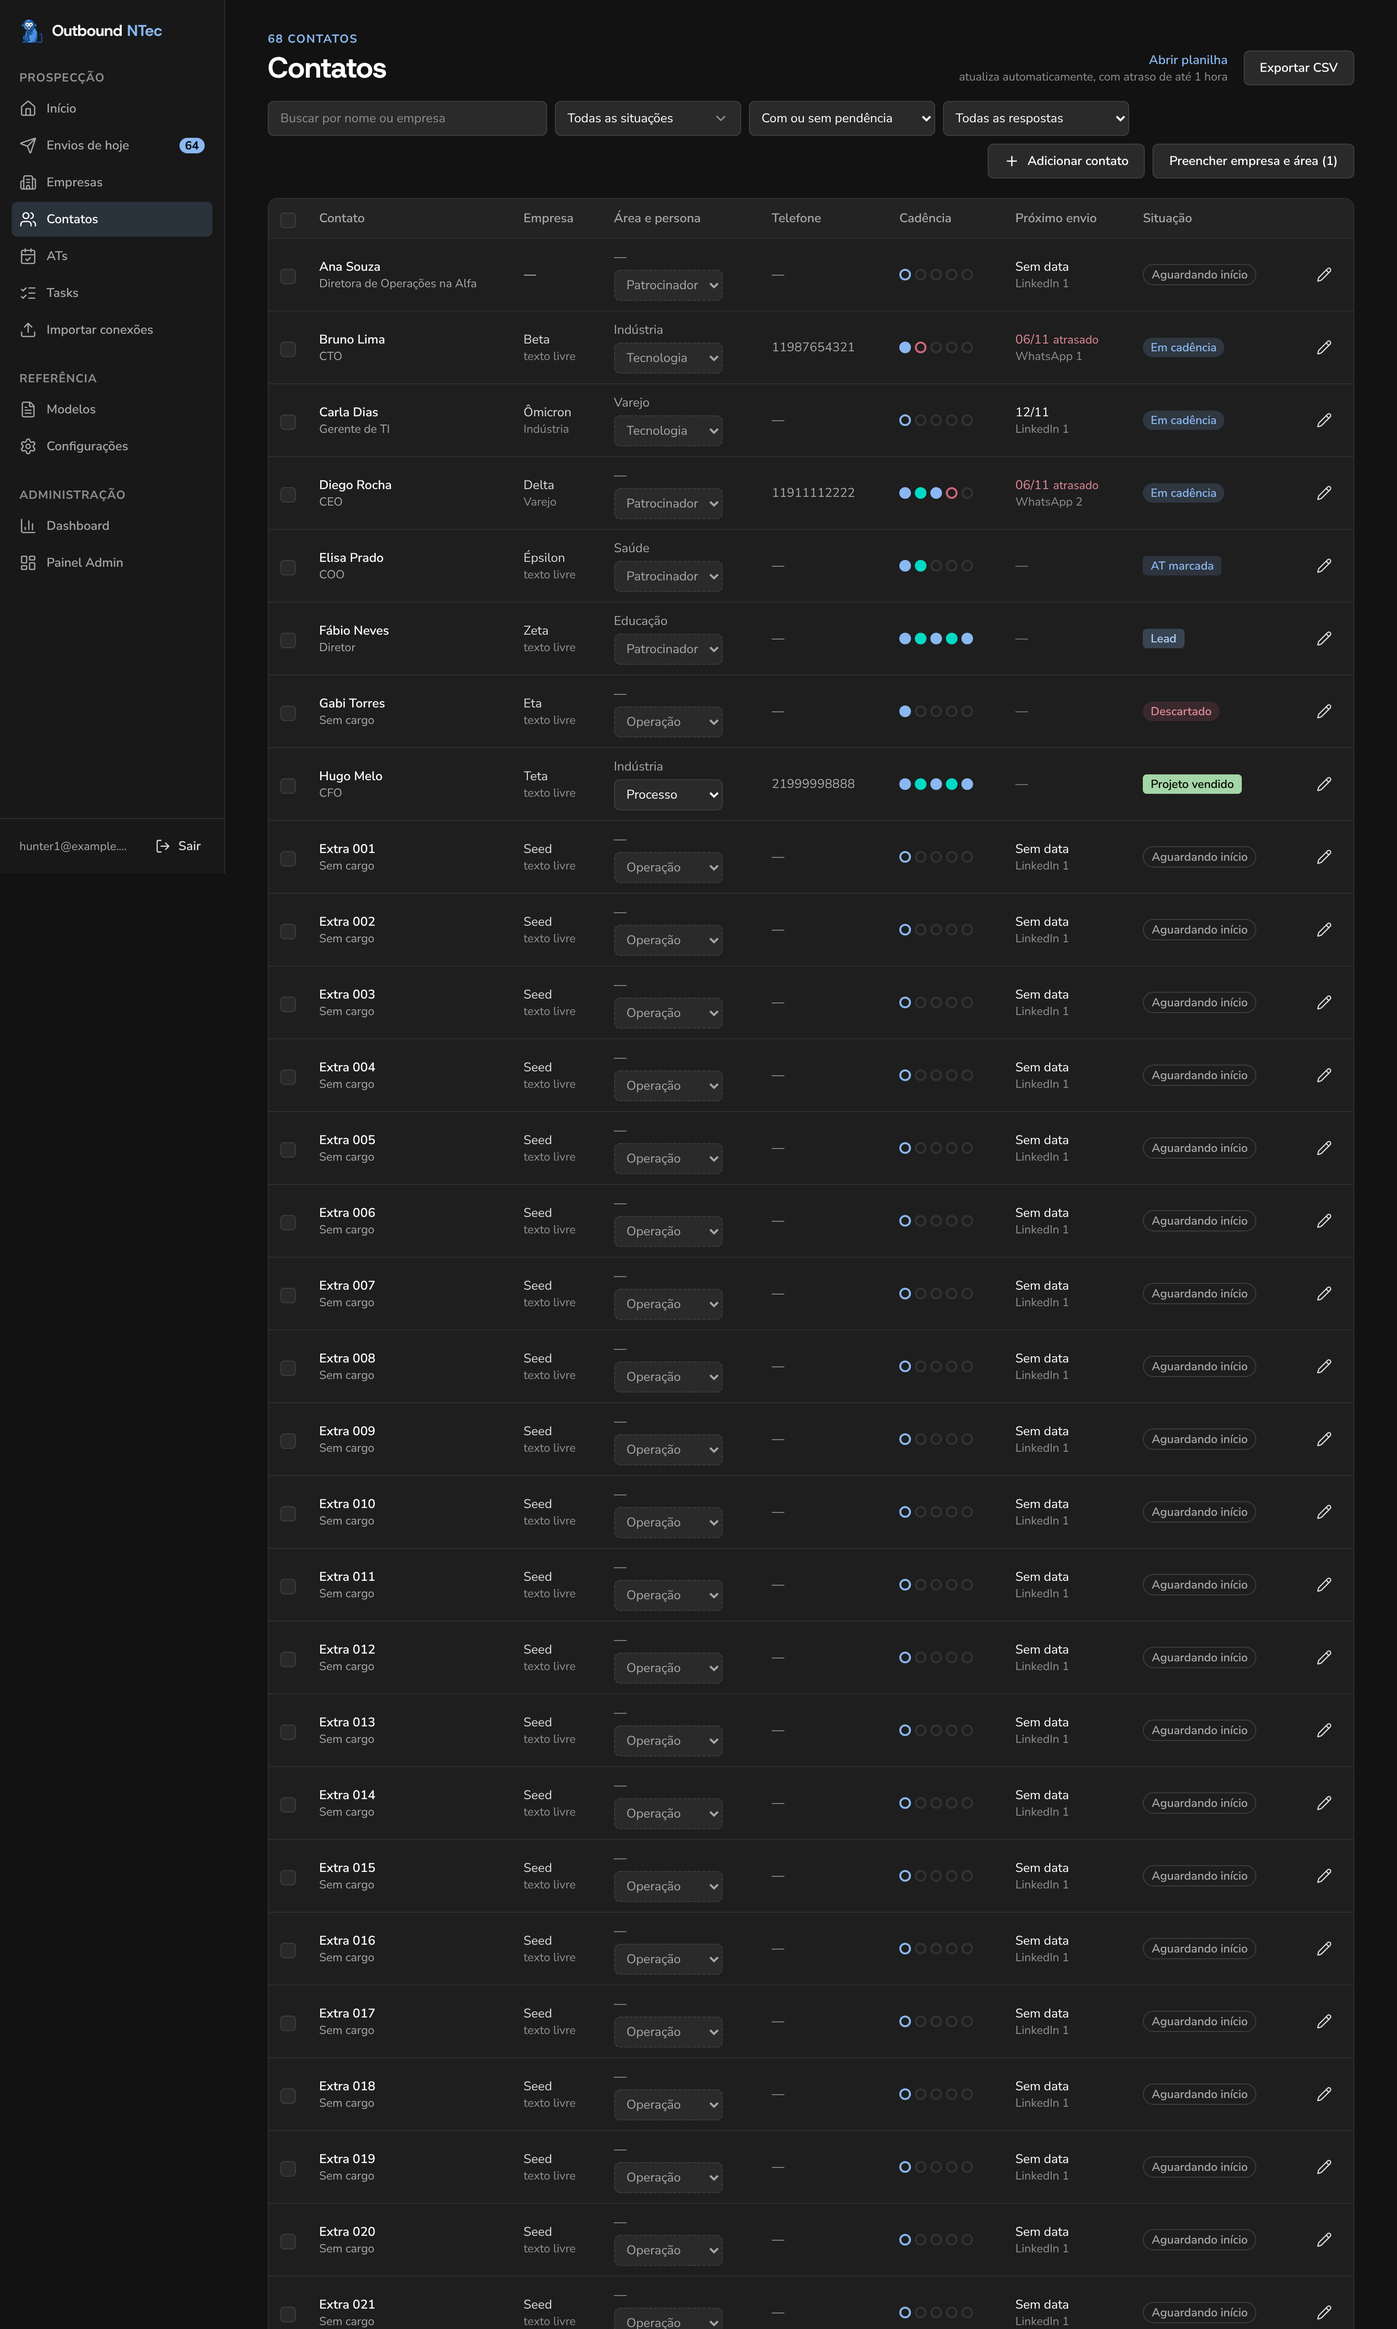
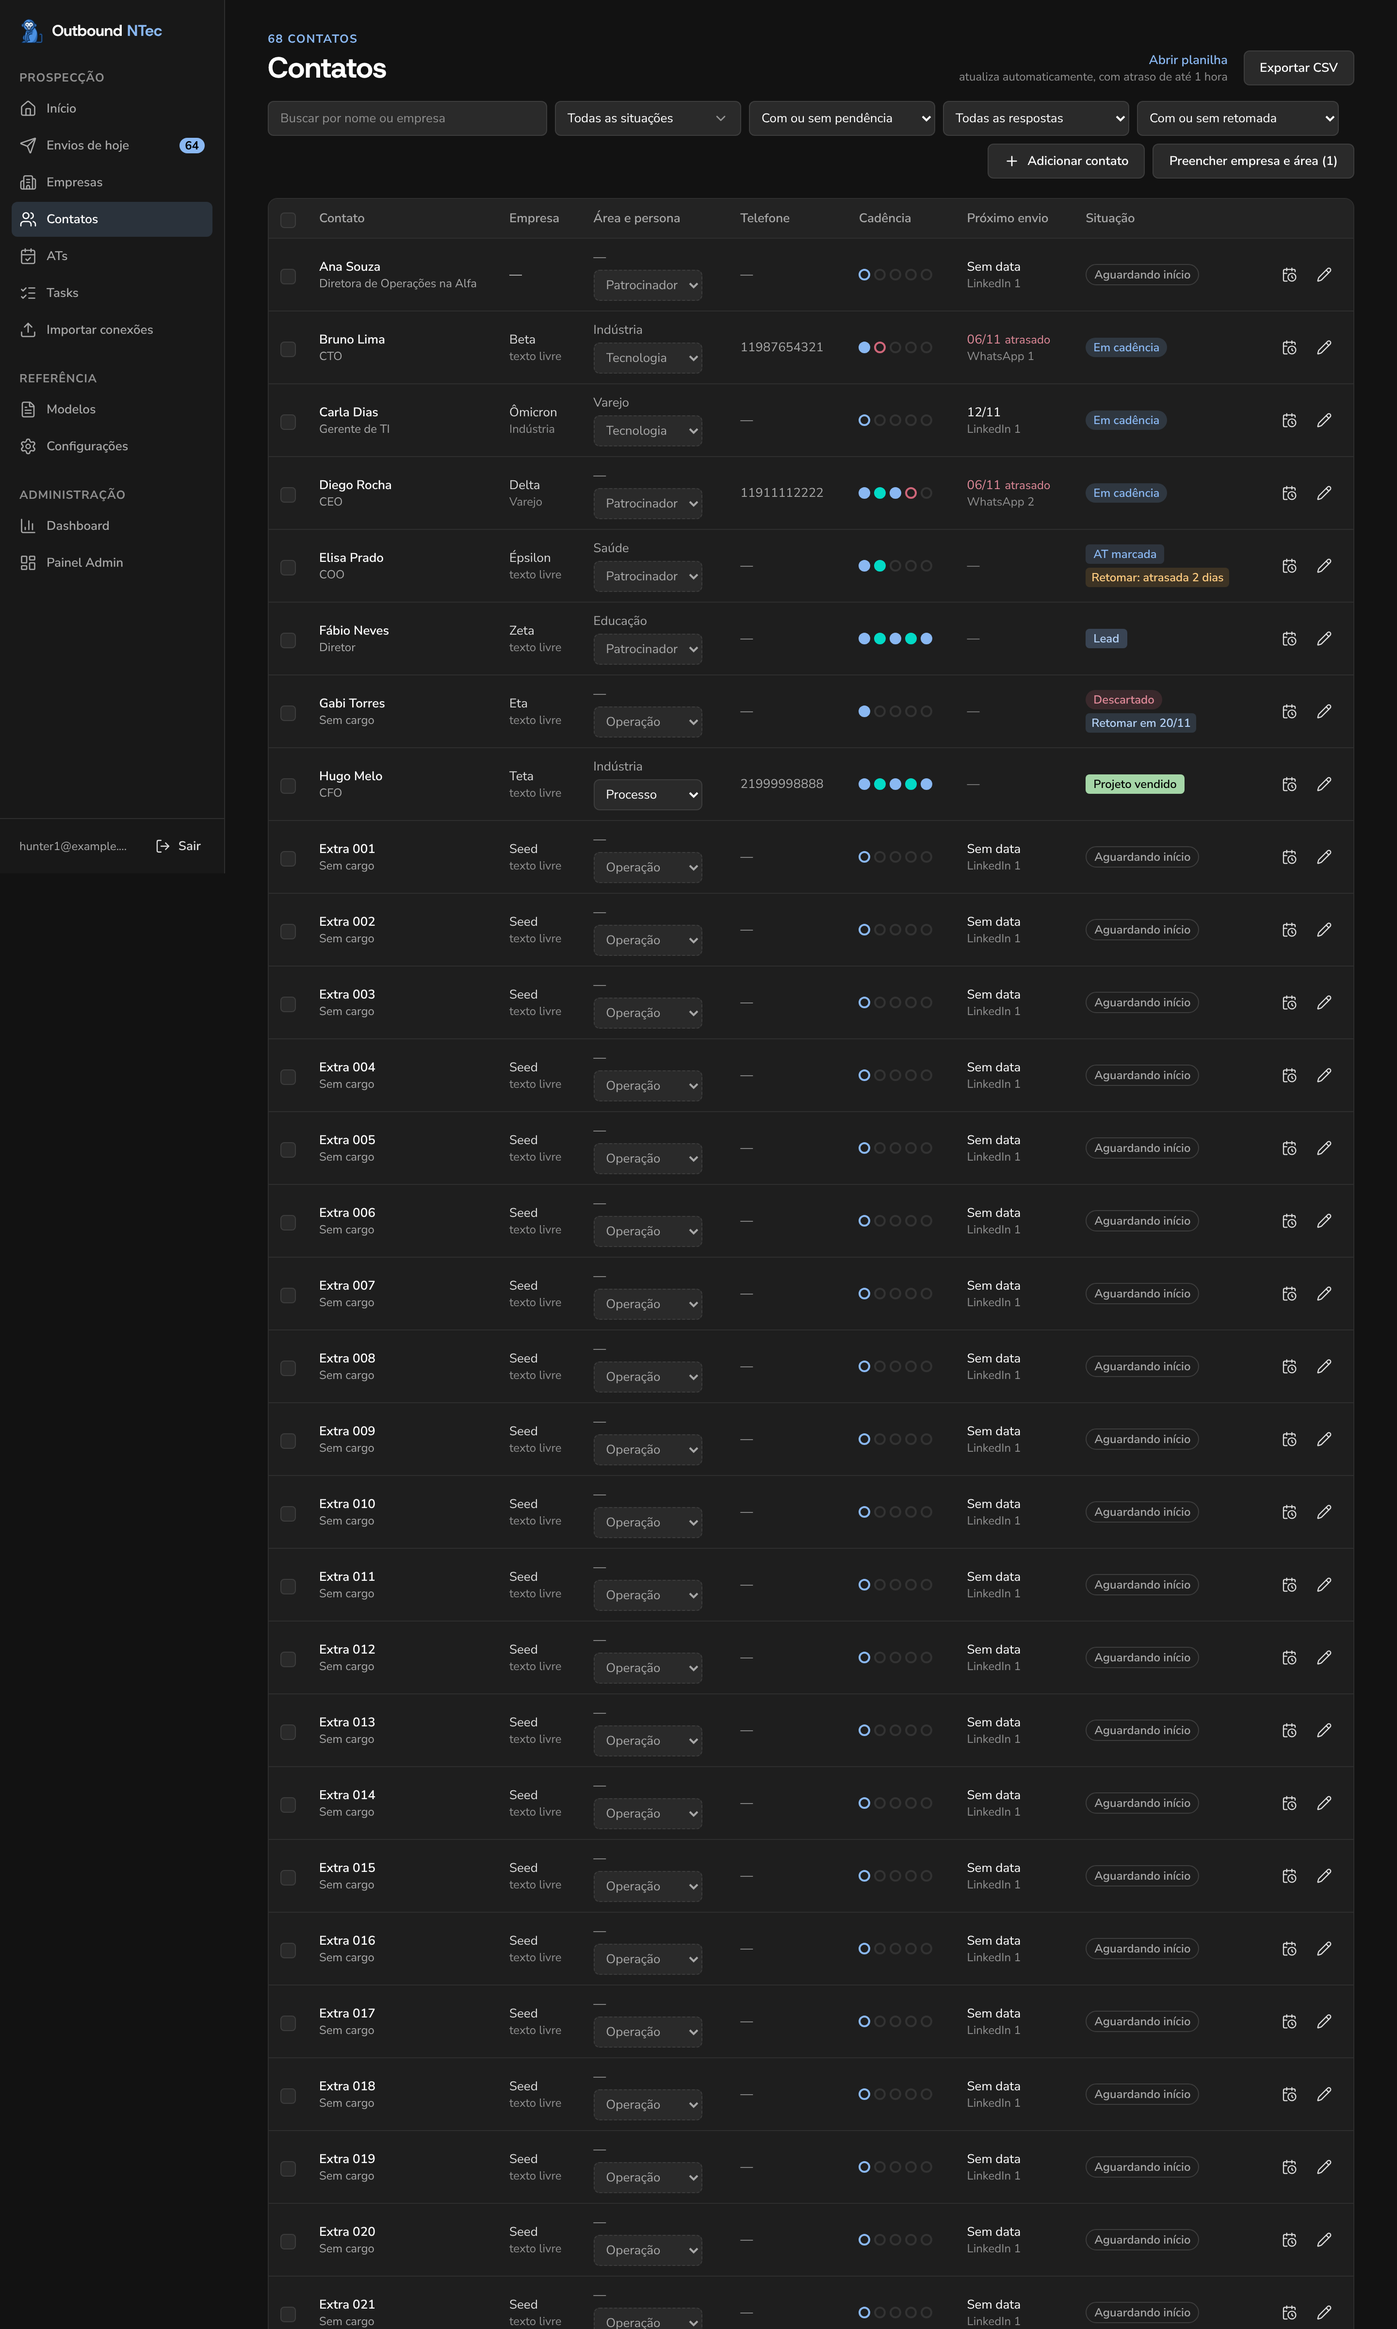
feat(contatos): marca o contato para retomar depois
Fase 4 da dashboard de outbound (PR 4.3 do plano), conforme o wireframe aprovado.
- Botão "Retomar depois" em cada linha (ao lado de editar; a linha não tem menu) abre o diálogo
  com a data (atalhos de 1 semana a 3 meses, nunca antes de hoje) e o que o prospect disse.
  Contato já marcado: trocar a data ou desmarcar.
- Selo embaixo da situação: "Retomar em 10/12" ou "Retomar: atrasada N dias" (warning).
- Filtro "Para retomar" na barra de filtros.
- RetomadaDialog é compartilhado com Envios de hoje. A situação e a cadência não mudam.
- e2e: selos, filtro, validação da data e gravação; fixtures com uma retomada atrasada e uma
  futura.

Claude-Session: https://claude.ai/code/session_0137A66yoRLBZ4ngndr6bSBF

diff --git a/src/components/RetomadaDialog.tsx b/src/components/RetomadaDialog.tsx
@@ -1,0 +1,143 @@
+import { useState, type FormEvent } from "react";
+import { Button } from "@/components/ui/button";
+import {
+  Dialog,
+  DialogContent,
+  DialogDescription,
+  DialogFooter,
+  DialogHeader,
+  DialogTitle,
+} from "@/components/ui/dialog";
+import { Input } from "@/components/ui/input";
+import { Label } from "@/components/ui/label";
+import { Textarea } from "@/components/ui/textarea";
+import { addDaysISO, type Contact } from "@/lib/cadencia";
+import {
+  MOTIVO_MAX,
+  desmarcarRetomada,
+  erroRetomada,
+  marcarRetomada,
+  retomadaPendente,
+  type RetomadaCampos,
+} from "@/lib/retomada";
+
+const ATALHOS: { rotulo: string; dias: number }[] = [
+  { rotulo: "Em 1 semana", dias: 7 },
+  { rotulo: "Em 2 semanas", dias: 14 },
+  { rotulo: "Em 1 mês", dias: 30 },
+  { rotulo: "Em 3 meses", dias: 91 },
+];
+
+/**
+ * Marcar o contato para retomar depois (ou trocar a data, ou desmarcar). Usado em Contatos e em
+ * Envios de hoje › Retomadas. Não muda a situação nem reinicia a cadência.
+ */
+export function RetomadaDialog({
+  contato,
+  hoje,
+  onSalvar,
+  onClose,
+}: {
+  contato: Pick<Contact, "name" | "retomar_em" | "retomar_motivo" | "retomado_em">;
+  hoje: string;
+  onSalvar: (patch: Partial<RetomadaCampos>, mensagem: string) => void;
+  onClose: () => void;
+}) {
+  const pendente = retomadaPendente(contato);
+  const [data, setData] = useState(
+    pendente && contato.retomar_em! >= hoje ? contato.retomar_em! : "",
+  );
+  const [motivo, setMotivo] = useState(pendente ? (contato.retomar_motivo ?? "") : "");
+  const [erro, setErro] = useState<string | null>(null);
+
+  function enviar(e: FormEvent) {
+    e.preventDefault();
+    const invalido = erroRetomada(data, motivo, hoje);
+    if (invalido) return setErro(invalido);
+    onSalvar(
+      marcarRetomada(data, motivo),
+      pendente ? "Data da retomada trocada" : "Marcado para retomar",
+    );
+    onClose();
+  }
+
+  return (
+    <Dialog open onOpenChange={(o) => !o && onClose()}>
+      <DialogContent className="max-w-md">
+        <DialogHeader>
+          <DialogTitle>
+            {pendente ? "Trocar a data da retomada" : "Retomar depois"}: {contato.name}
+          </DialogTitle>
+          <DialogDescription>
+            A cadência não recomeça; o contato aparece em Envios de hoje › Retomadas no dia
+            escolhido.
+          </DialogDescription>
+        </DialogHeader>
+        <form onSubmit={enviar} className="space-y-4" noValidate>
+          <div className="space-y-1.5">
+            <Label htmlFor="retomar-em">Quando retomar o contato?</Label>
+            <Input
+              id="retomar-em"
+              type="date"
+              min={hoje}
+              value={data}
+              onChange={(e) => setData(e.target.value)}
+              className="w-44"
+            />
+            <div className="flex flex-wrap gap-1.5">
+              {ATALHOS.map((a) => (
+                <Button
+                  key={a.dias}
+                  type="button"
+                  variant="secondary"
+                  size="sm"
+                  onClick={() => setData(addDaysISO(hoje, a.dias))}
+                >
+                  {a.rotulo}
+                </Button>
+              ))}
+            </div>
+          </div>
+          <div className="space-y-1.5">
+            <Label htmlFor="retomar-motivo">O que o prospect disse (opcional)</Label>
+            <Textarea
+              id="retomar-motivo"
+              rows={3}
+              maxLength={MOTIVO_MAX}
+              placeholder="Ex.: pediu para falar depois do fechamento do ano"
+              value={motivo}
+              onChange={(e) => setMotivo(e.target.value)}
+            />
+          </div>
+          {erro && (
+            <p role="alert" className="text-dense text-destructive-text">
+              {erro}
+            </p>
+          )}
+          <DialogFooter className="gap-2 sm:justify-between">
+            {pendente ? (
+              <Button
+                type="button"
+                variant="ghost"
+                onClick={() => {
+                  onSalvar(desmarcarRetomada(), "Retomada desmarcada");
+                  onClose();
+                }}
+              >
+                Desmarcar retomada
+              </Button>
+            ) : (
+              <span />
+            )}
+            <div className="flex gap-2">
+              <Button type="button" variant="secondary" onClick={onClose}>
+                Cancelar
+              </Button>
+              <Button type="submit">{pendente ? "Trocar a data" : "Marcar para retomar"}</Button>
+            </div>
+          </DialogFooter>
+        </form>
+      </DialogContent>
+    </Dialog>
+  );
+}

diff --git a/e2e/contatos.spec.ts b/e2e/contatos.spec.ts
@@ -283,4 +283,41 @@ test.describe("Contatos", () => {
     await expect.poll(async () => (await mutations()).length).toBe(1);
     expect(JSON.parse((await mutations())[0]!.body)).toEqual({ persona: "owner_operacao" });
   });
+
+  test("marca o contato para retomar depois e filtra os que estão para retomar", async ({
+    page,
+  }) => {
+    await page.goto("/contatos");
+    // Elisa: combinada para 10/11 (hoje é 12/11). Gabi: para 20/11.
+    await expect(page.getByRole("row", { name: /Elisa Prado/ })).toContainText(
+      "Retomar: atrasada 2 dias",
+    );
+    await expect(page.getByRole("row", { name: /Gabi Torres/ })).toContainText("Retomar em 20/11");
+
+    await page.getByLabel("Retomada").selectOption("para_retomar");
+    await expect(page.getByRole("row", { name: /Elisa Prado|Gabi Torres/ })).toHaveCount(2);
+    await expect(page.getByRole("row", { name: /Ana Souza/ })).toHaveCount(0);
+    await page.getByLabel("Retomada").selectOption("todos");
+
+    await page.getByRole("button", { name: "Retomar Ana Souza depois" }).click();
+    const dialog = page.getByRole("dialog", { name: /Retomar depois: Ana Souza/ });
+    await dialog.getByLabel("Quando retomar o contato?").fill("2026-11-10");
+    await dialog.getByRole("button", { name: "Marcar para retomar" }).click();
+    await expect(dialog.getByRole("alert")).toHaveText(
+      "O dia para retomar não pode ser antes de hoje.",
+    );
+    expect(await mutations()).toEqual([]);
+
+    await dialog.getByRole("button", { name: "Em 1 semana" }).click();
+    await expect(dialog.getByLabel("Quando retomar o contato?")).toHaveValue("2026-11-19");
+    await dialog.getByLabel("O que o prospect disse (opcional)").fill("  Ligar depois da feira ");
+    await dialog.getByRole("button", { name: "Marcar para retomar" }).click();
+    await expect(page.getByText("Marcado para retomar")).toBeVisible();
+    const [m] = await mutations();
+    expect(m).toMatchObject({ method: "PATCH", table: "contacts" });
+    expect(JSON.parse(m!.body)).toEqual({
+      retomar_em: "2026-11-19",
+      retomar_motivo: "Ligar depois da feira",
+    });
+  });
 });

diff --git a/src/components/contatos/ContactRow.tsx b/src/components/contatos/ContactRow.tsx
@@ -1,4 +1,4 @@
-import { Pencil } from "lucide-react";
+import { CalendarClock, Pencil } from "lucide-react";
 import { FunnelBadge } from "@/components/Funnel";
 import { PersonaSelect } from "@/components/PersonaSelect";
 import { StatusBadge } from "@/components/StatusBadge";
@@ -34,6 +34,9 @@ export function ContactRow({
   onToggle,
   onEdit,
   onPersona,
+  retomada,
+  retomadaAtrasada,
+  onRetomada,
 }: {
   contact: Contact;
   /** Setor (ramo) da empresa cadastrada, quando o contato está vinculado a uma. */
@@ -45,6 +48,10 @@ export function ContactRow({
   onEdit: () => void;
   /** Grava a persona escolhida (confirma a sugerida). */
   onPersona: (persona: Persona) => void;
+  /** Texto do selo de retomada ("Retomar em 10/12"); vazio quando não está para retomar. */
+  retomada: string;
+  retomadaAtrasada: boolean;
+  onRetomada: () => void;
 }) {
   const { persona, suggested } = contactPersona(c);
   return (
@@ -133,8 +140,30 @@ export function ContactRow({
         ) : (
           <StatusBadge status={computedStatus(c)} />
         )}
+        {retomada && (
+          <span
+            className={cn(
+              "mt-1 block w-fit rounded-sm px-1.5 py-0.5 text-caption font-semibold",
+              retomadaAtrasada
+                ? "bg-warning-soft text-warning-text"
+                : "bg-primary-soft text-primary-text-strong",
+            )}
+            title={c.retomar_motivo ?? undefined}
+          >
+            {retomada}
+          </span>
+        )}
       </TableCell>
-      <TableCell className="text-right">
+      <TableCell className="text-right whitespace-nowrap">
+        <Button
+          size="icon"
+          variant="ghost"
+          onClick={onRetomada}
+          aria-label={`Retomar ${c.name} depois`}
+          title="Retomar depois"
+        >
+          <CalendarClock strokeWidth={1.75} />
+        </Button>
         <Button size="icon" variant="ghost" onClick={onEdit} aria-label={`Editar ${c.name}`}>
           <Pencil strokeWidth={1.75} />
         </Button>

diff --git a/src/components/contatos/ContactsTable.tsx b/src/components/contatos/ContactsTable.tsx
@@ -12,6 +12,9 @@ import type { Selection } from "@/hooks/useSelection";
 import type { Contact, ContactStatus, Holidays, Offsets } from "@/lib/cadencia";
 import { cadenceMarks, nextSend } from "@/lib/contatos";
 import type { Company } from "@/lib/empresas";
+import { toast } from "sonner";
+import { RetomadaDialog } from "@/components/RetomadaDialog";
+import { diasDeAtraso, retomadaPendente, textoRetomada } from "@/lib/retomada";
 import { ContactEditDialog } from "./ContactEditDialog";
 import { ContactRow } from "./ContactRow";
 
@@ -48,6 +51,8 @@ export function ContactsTable({
 }) {
   const [editingId, setEditingId] = useState<string | null>(null);
   const editing = rows.find((r) => r.id === editingId) ?? null;
+  const [retomandoId, setRetomandoId] = useState<string | null>(null);
+  const retomando = rows.find((r) => r.id === retomandoId) ?? null;
 
   return (
     <div className="overflow-x-auto rounded-xl border bg-card">
@@ -101,11 +106,25 @@ export function ContactsTable({
                 onToggle={() => selection.toggle(c.id)}
                 onPersona={(persona) => onPatch(c, { persona })}
                 onEdit={() => setEditingId(c.id)}
+                retomada={textoRetomada(c, today)}
+                retomadaAtrasada={diasDeAtraso(c, today) > 0 && retomadaPendente(c)}
+                onRetomada={() => setRetomandoId(c.id)}
               />
             );
           })}
         </TableBody>
       </Table>
+      {retomando && (
+        <RetomadaDialog
+          contato={retomando}
+          hoje={today}
+          onSalvar={(patch, mensagem) => {
+            onPatch(retomando, patch);
+            toast.success(mensagem);
+          }}
+          onClose={() => setRetomandoId(null)}
+        />
+      )}
       {editing && (
         <ContactEditDialog
           contact={editing}

diff --git a/src/routes/_authenticated/contatos.tsx b/src/routes/_authenticated/contatos.tsx
@@ -24,6 +24,7 @@ import {
   withSyncedStatus,
   type MissingFilter,
   type RespostaFilter,
+  type RetomadaFilter,
   type StatusFilter,
 } from "@/lib/contatos";
 import { downloadCsv } from "@/lib/download";
@@ -68,13 +69,14 @@ function Contatos() {
   const [statusFilter, setStatusFilter] = useState<StatusFilter>("todos");
   const [missing, setMissing] = useState<MissingFilter>("todos");
   const [resposta, setResposta] = useState<RespostaFilter>("todos");
+  const [retomada, setRetomada] = useState<RetomadaFilter>("todos");
   const [page, setPage] = useState(0);
   // A busca filtra milhares de contatos: o campo responde na hora e a tabela acompanha em seguida.
   const deferredSearch = useDeferredValue(search);
 
   const rows = useMemo(
-    () => filterContacts(contacts ?? [], deferredSearch, statusFilter, missing, resposta),
-    [contacts, deferredSearch, statusFilter, missing, resposta],
+    () => filterContacts(contacts ?? [], deferredSearch, statusFilter, missing, resposta, retomada),
+    [contacts, deferredSearch, statusFilter, missing, resposta, retomada],
   );
   const paged = paginate(rows, page, PAGE_SIZE);
   const save = (contact: Contact, patch: Partial<Contact>) =>
@@ -102,6 +104,11 @@ function Contatos() {
         resposta={resposta}
         onResposta={(v) => {
           setResposta(v);
+          setPage(0);
+        }}
+        retomada={retomada}
+        onRetomada={(v) => {
+          setRetomada(v);
           setPage(0);
         }}
         actions={

diff --git a/src/components/contatos/ContactsToolbar.tsx b/src/components/contatos/ContactsToolbar.tsx
@@ -16,6 +16,8 @@ import {
   RESPOSTA_FILTER_LABEL,
   type MissingFilter,
   type RespostaFilter,
+  RETOMADA_FILTER_LABEL,
+  type RetomadaFilter,
   type StatusFilter,
 } from "@/lib/contatos";
 
@@ -33,6 +35,8 @@ export function ContactsToolbar({
   onMissing,
   resposta,
   onResposta,
+  retomada,
+  onRetomada,
   actions,
   onExport,
 }: {
@@ -45,6 +49,8 @@ export function ContactsToolbar({
   onMissing: (v: MissingFilter) => void;
   resposta: RespostaFilter;
   onResposta: (v: RespostaFilter) => void;
+  retomada: RetomadaFilter;
+  onRetomada: (v: RetomadaFilter) => void;
   /** Botões extras (ex.: preenchimento automático). */
   actions?: ReactNode;
   onExport: () => void;
@@ -117,6 +123,18 @@ export function ContactsToolbar({
           {(Object.keys(RESPOSTA_FILTER_LABEL) as RespostaFilter[]).map((r) => (
             <option key={r} value={r}>
               {RESPOSTA_FILTER_LABEL[r]}
+            </option>
+          ))}
+        </NativeSelect>
+        <NativeSelect
+          aria-label="Retomada"
+          className="w-52"
+          value={retomada}
+          onChange={(e) => onRetomada(e.target.value as RetomadaFilter)}
+        >
+          {(Object.keys(RETOMADA_FILTER_LABEL) as RetomadaFilter[]).map((r) => (
+            <option key={r} value={r}>
+              {RETOMADA_FILTER_LABEL[r]}
             </option>
           ))}
         </NativeSelect>
